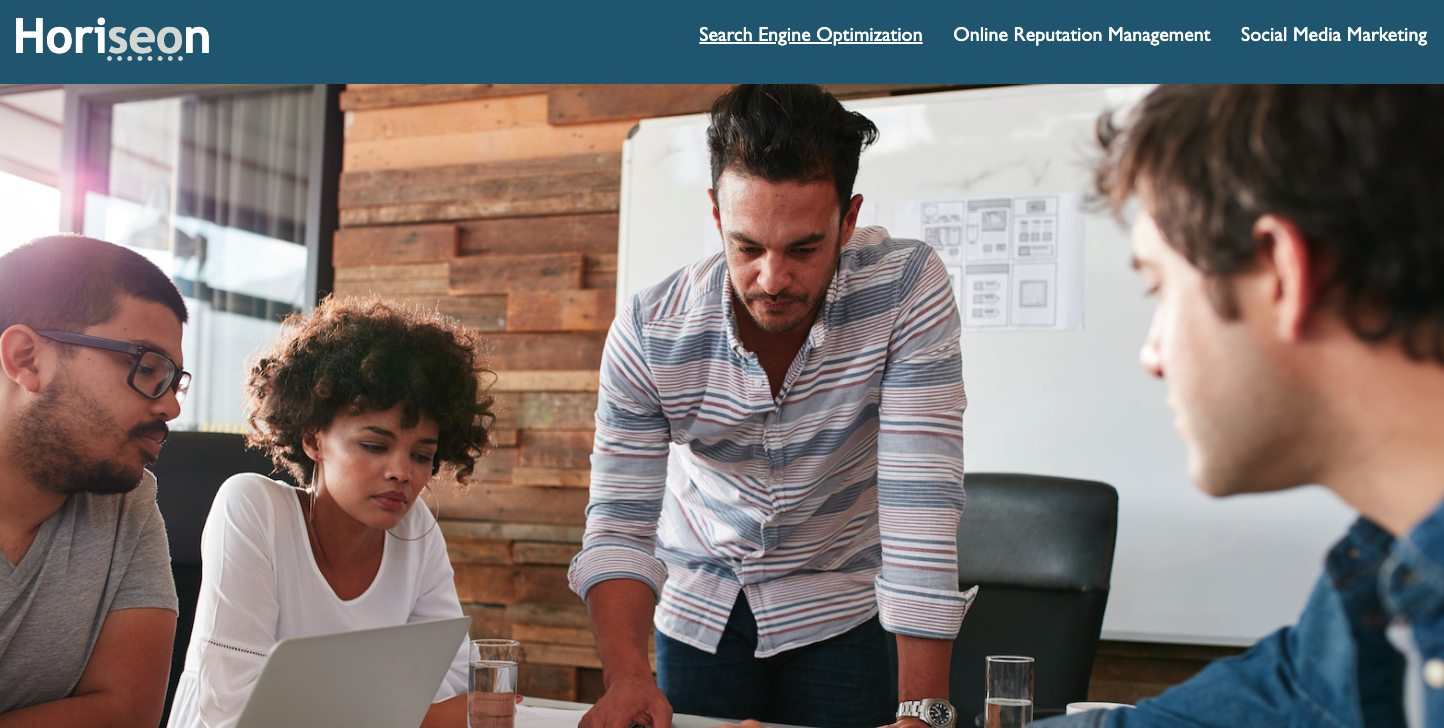
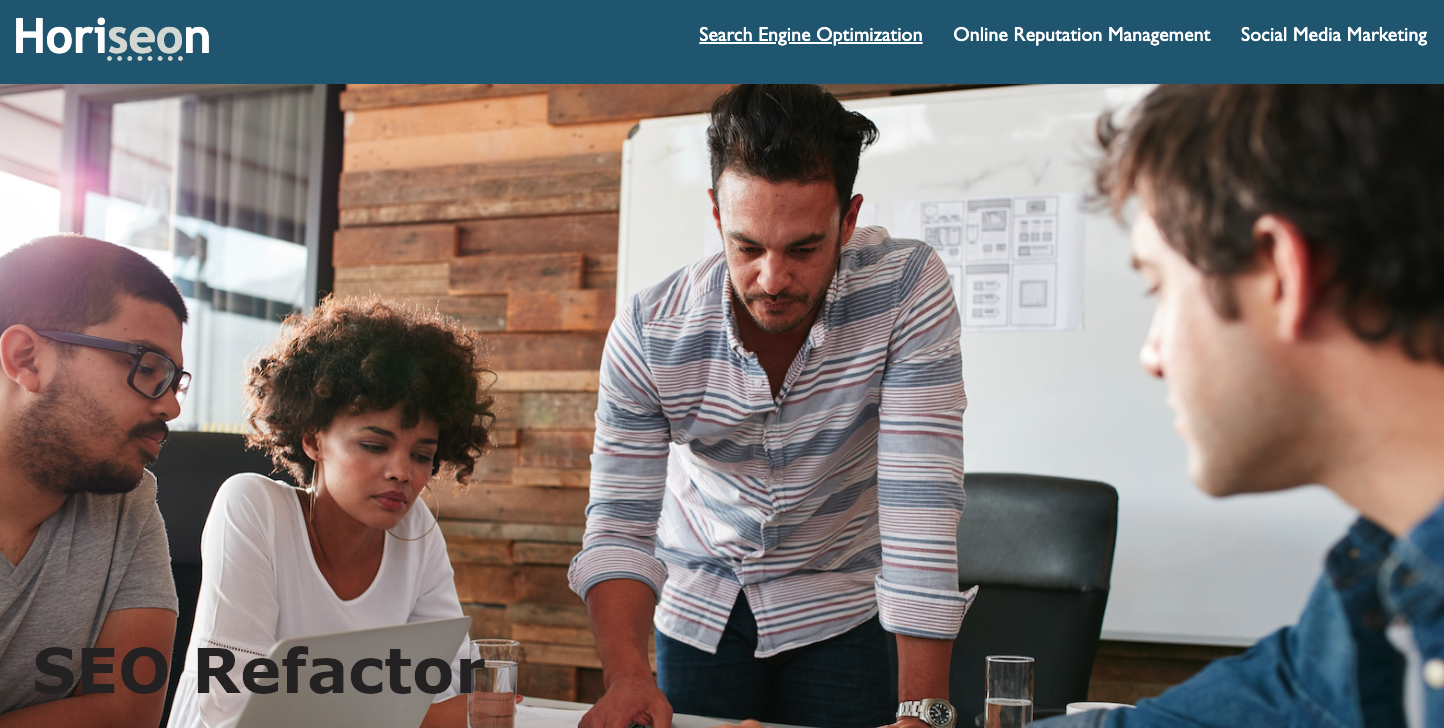
updated images, more styling

Changed region(s): [[0.0312, 0.8764, 0.3428, 0.967]]

diff --git a/index.html b/index.html
@@ -42,11 +42,11 @@
                 </section>
                 <section>
                         <a href="https://djbartolini.github.io/seo-refactor/"><img src="./assets/images/Horiseon-project.png" alt="Horiseon SEO Refactor" class="main-card"></a>
-                            <p class="seo-refactor">SEO Refactor</p>
-                        <a href="https://via.placeholder.com"><img src="https://via.placeholder.com/400" alt="placeholder" class="small-card"></a>
-                            <p class="coming-soon-left">Coming soon!</p>
-                        <a href="https://via.placeholder.com"><img src="https://via.placeholder.com/400" alt="placeholder" class="small-card"></a>
-                            <p class="coming-soon-right">Coming soon!</p>
+                            <!-- <p class="seo-refactor">SEO Refactor</p> -->
+                        <a href="https://via.placeholder.com" class="small-card"><img src="./assets/images/coming-soon.png" alt="placeholder" class="small-card"></a>
+                            <!-- <p class="coming-soon-left">Coming soon!</p> -->
+                        <a href="https://via.placeholder.com" class="small-card"><img src="./assets/images/coming-soon.png" alt="placeholder" class="small-card"></a>
+                            <!-- <p class="coming-soon-right">Coming soon!</p> -->
 
                 </section>
             </section> 
@@ -56,10 +56,10 @@
             <section class="footer-head">
                 <h2 id="contact">CONTACT ME</h2>
             </section>
-                <ul class="contact-me">
-                    <li><a href="https://github.com/djbartolini">GitHub</li>
-                    <li><a href="https://linkedin.com/in/daniel-bartolini-development">LinkedIn</li>
-                </ul>
+            <ul class="contact-me">
+                <li><a href="https://github.com/djbartolini">GitHub</li>
+                <li><a href="https://linkedin.com/in/daniel-bartolini-development">LinkedIn</li>
+            </ul>
         </footer>
     </main>
 

diff --git a/assets/css/style.css b/assets/css/style.css
@@ -6,11 +6,6 @@ body {
     background-color: black;
 }
 
-@keyframes fadeIn {
-    0% {opacity: 0;}
-    100% {opacity: 1}
-}
-
 header {
     background-image: url(../images/circle-thing.png);
     background-repeat: no-repeat;
@@ -75,7 +70,7 @@ nav ul a {
 }
 
 .container {
-    margin: 10px 20px;
+    margin: 10px 20px 10px 10px 10px;
 }
 
 .card-header {
@@ -109,14 +104,35 @@ nav ul a {
     max-height: 400px;
 }
 
-
+@media screen and (max-width: 750px) {
+    .about-me {
+        display: block;
+    }
+    .about-me img {
+        max-height: 250px;
+        margin: 0 auto;
+    }
+}
 
 .main-card {
-    max-width: 1140px;
+    max-width: 100%;
     border-radius: 20px;
     margin: 5px;
     opacity: 75%;
 }    
+
+
+
+@media screen and (max-width: 650px) {
+    .small-card {
+        max-width: 42%;
+        display: block;
+    }
+    .main-card {
+        max-width: 100%;
+    }
+}
+    
 
 .seo-refactor {
     position: absolute;
@@ -132,7 +148,6 @@ nav ul a {
 }    
 
 .small-card {
-    max-width: 650px;
     border-radius: 15px;
     margin: 5px;
     display: inline;
@@ -191,12 +206,17 @@ footer ul a {
 }
 
 
-/* .contact-me {
-    display: flex;
-    justify-content: center;
+@keyframes fadeIn {
+    0% {opacity: 0;}
+    100% {opacity: 1}
 }
 
-.contact-me a {
-    justify-content: space-between;
-    /* margin: 0 15px; */
-} */
+@media screen and (max-width: 768px) {
+    .container {
+        width: 100%;
+    }
+
+    .header {
+        width: 100%;
+    }
+}
